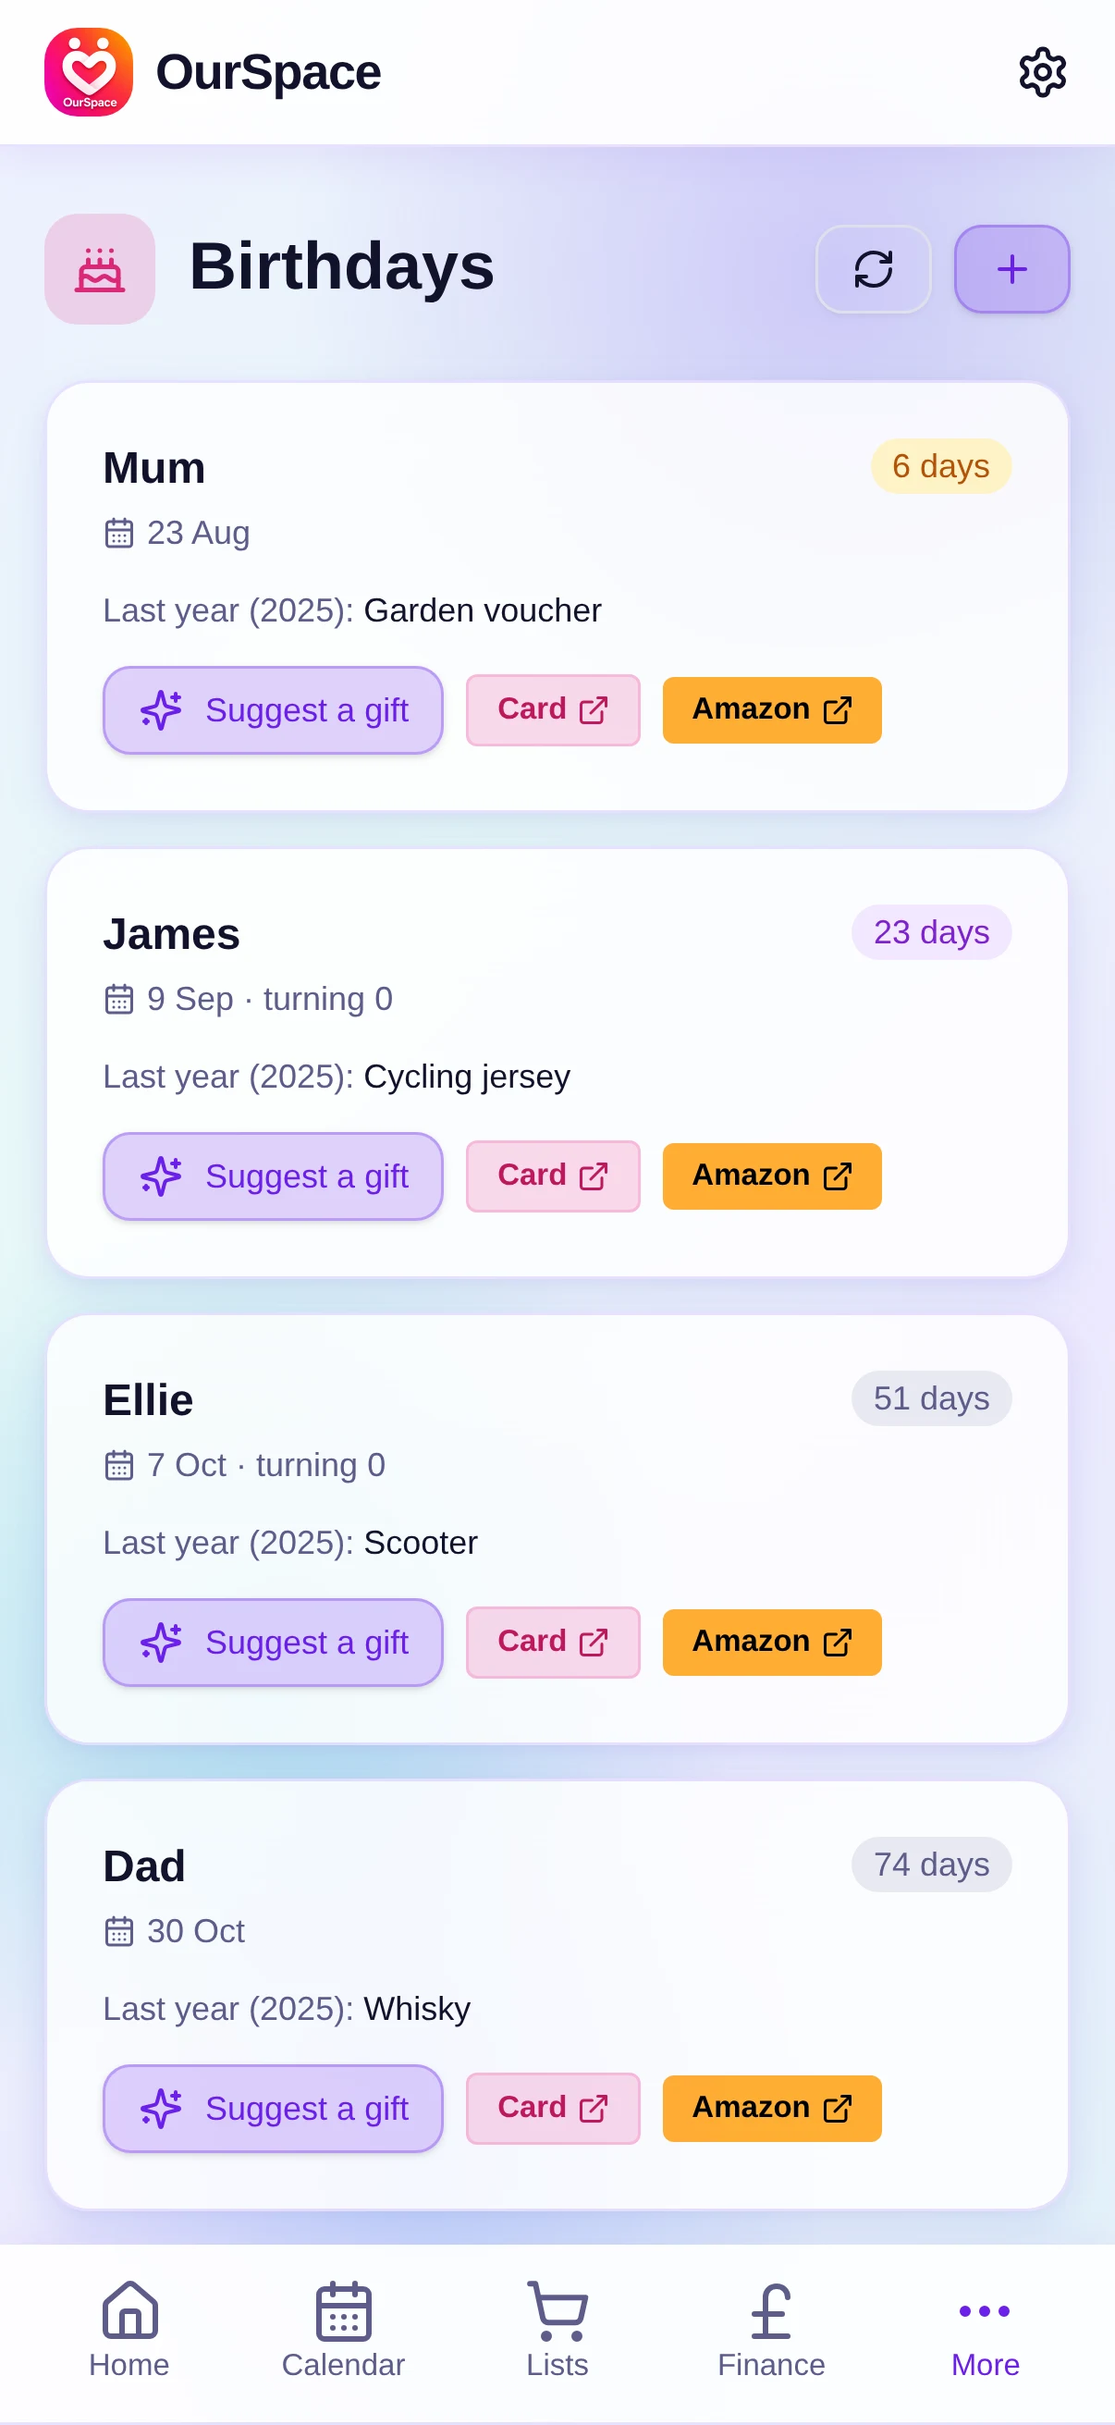
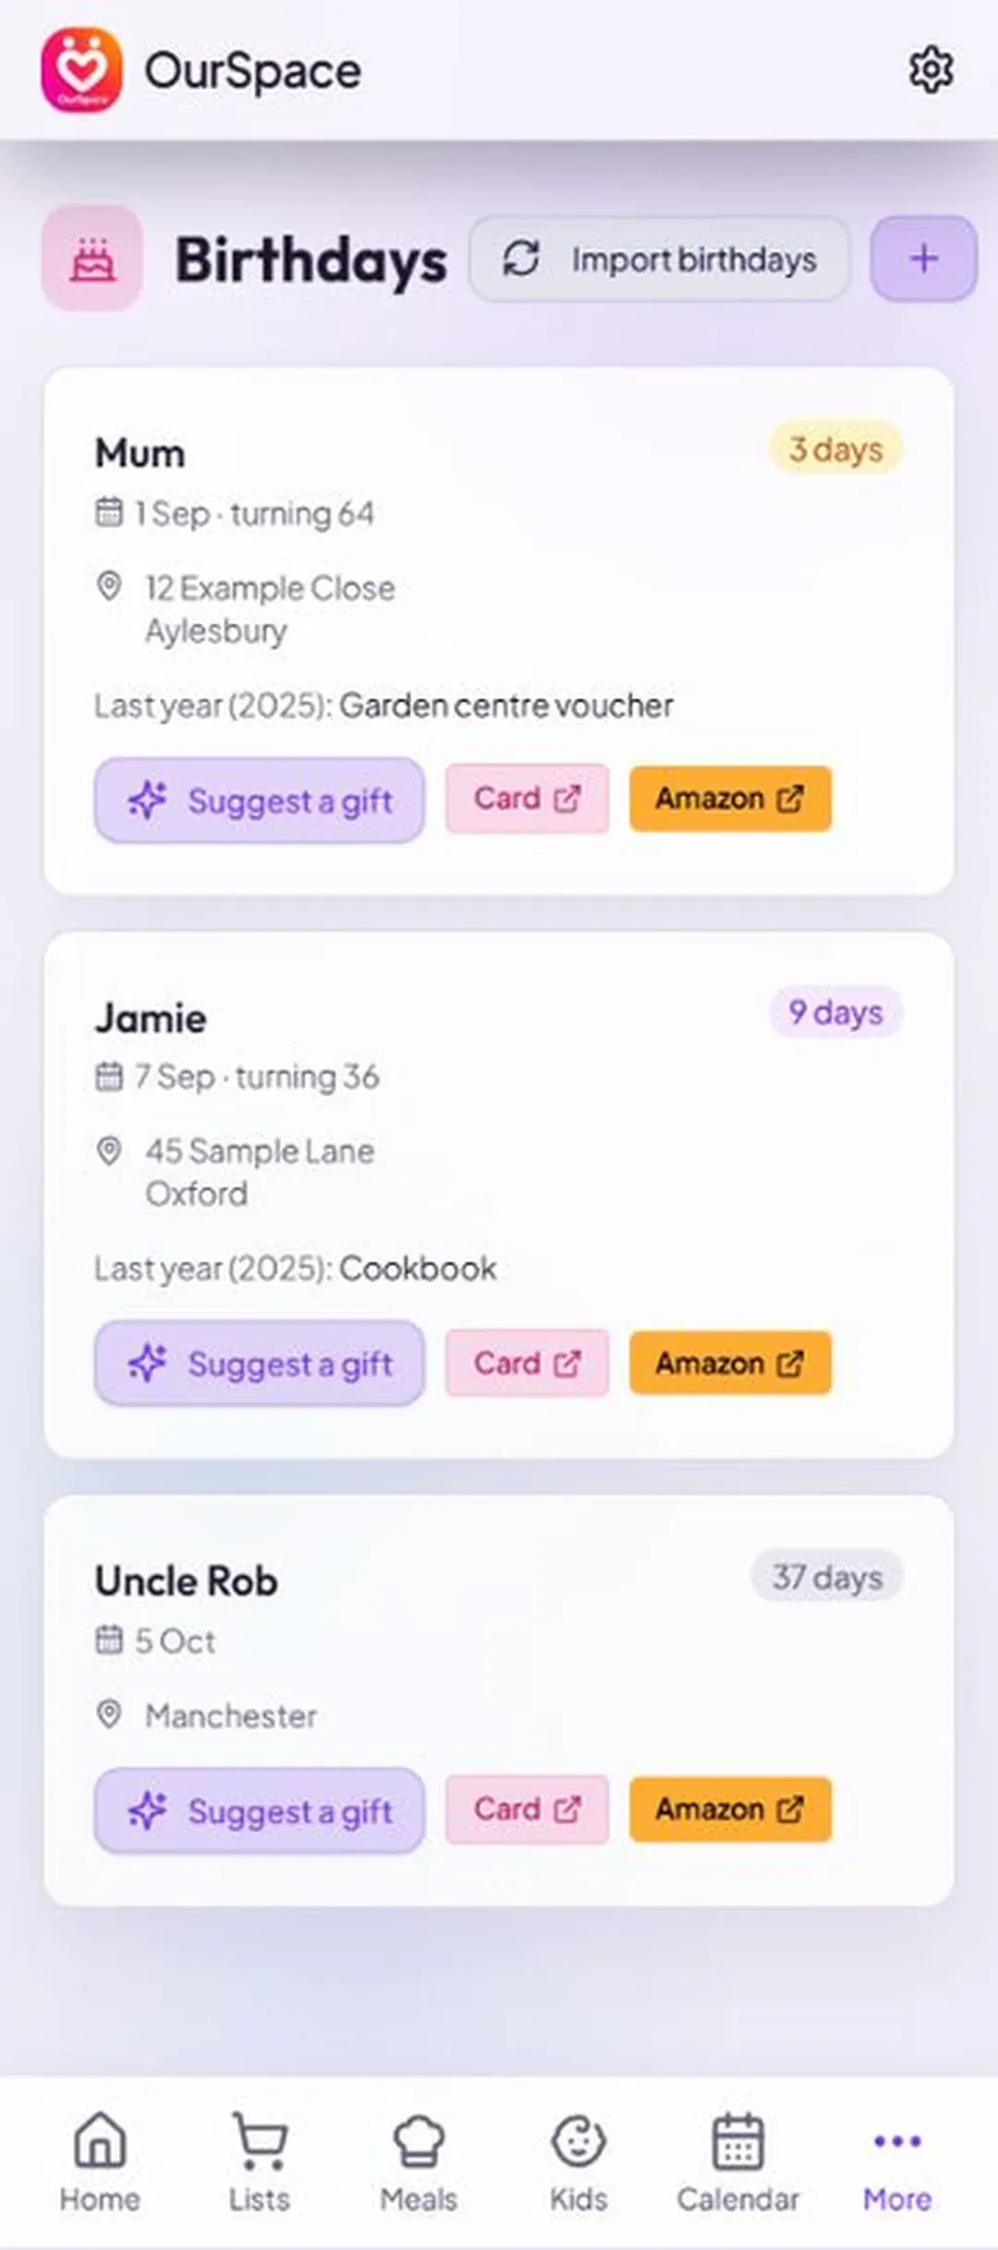
OurSpace: refresh the screenshots and show the app on a laptop
Every OurSpace capture on the site was from an older build and an older
sample household. They are replaced with the 29 August set: the same
fictional Morgan household throughout, and the phone shots now come from
the 1080-wide captures rather than the previous 1206-wide ones.

The page only ever showed OurSpace as a phone app, which undersells a
product that also runs in a browser. A new section after the phone grid
puts four of the desktop captures up two to a row.

Two swaps: the kids page was shot on an empty week, so it comes out of
both galleries; the meal planner goes in, on this page and on the home
page's OurSpace card.

scripts/build_ourspace_shots.mjs rebuilds all of it — including the
three-phone hero composite — from the two capture sources, so the next
re-shoot is one command.

diff --git a/ourspace.html b/ourspace.html
@@ -41,7 +41,7 @@
   <link rel="apple-touch-icon" href="apple-touch-icon.png">
   <link rel="preload" href="fonts/poppins-600.woff2" as="font" type="font/woff2" crossorigin>
   <link rel="preload" href="fonts/poppins-700.woff2" as="font" type="font/woff2" crossorigin>
-  <link rel="stylesheet" href="css/style.css?v=9">
+  <link rel="stylesheet" href="css/style.css?v=10">
   <script src="js/consent.js" defer></script>
 </head>
 <body>
@@ -79,7 +79,7 @@
           </div>
           <p class="hero-note">Prefer the browser? OurSpace also runs at <a href="https://our-space.me" rel="noopener">our-space.me</a>.</p>
         </div>
-        <a class="hero-product-shot shot-link" href="img/shots/ourspace-hero.webp"><img src="img/shots/ourspace-hero.webp" alt="Three phones showing OurSpace's calendar, home screen with its catch-up digest, and shared shopping list, side by side on the app's purple background" width="1400" height="840" fetchpriority="high"></a>
+        <a class="hero-product-shot shot-link" href="img/shots/ourspace-hero.webp"><img src="img/shots/ourspace-hero.webp" alt="Three phones showing OurSpace's calendar, the home screen with its bin reminder and noticeboard, and the shared shopping list, side by side on the app's purple background" width="1400" height="840" fetchpriority="high"></a>
       </div>
     </section>
 
@@ -126,36 +126,62 @@
         <p class="measure">Your day, your lists and your money — side by side, so both of you are looking at the same thing. Shown here with sample data from a made-up household.</p>
         <div class="phone-shots">
           <figure>
-            <a class="shot-link" href="img/shots/ourspace-home.webp"><img class="feature-shot" src="img/shots/ourspace-home.webp" width="1206" height="2622" loading="lazy" alt="OurSpace's home screen: today's events split into two columns, one per partner, above an AI-written digest summarising what the other person added or ticked off since you last looked"></a>
+            <a class="shot-link" href="img/shots/ourspace-home.webp"><img class="feature-shot" src="img/shots/ourspace-home.webp" width="1080" height="2433" loading="lazy" alt="OurSpace's home screen: today's events split into two columns, one per partner, above an AI-written digest summarising what the other person added or ticked off since you last looked"></a>
             <figcaption>Home — the day, and what changed</figcaption>
           </figure>
           <figure>
-            <a class="shot-link" href="img/shots/ourspace-calendar.webp"><img class="feature-shot" src="img/shots/ourspace-calendar.webp" width="1206" height="2622" loading="lazy" alt="OurSpace's calendar: each partner's Google Calendar events for the day listed under their own name, with a month view underneath"></a>
+            <a class="shot-link" href="img/shots/ourspace-calendar.webp"><img class="feature-shot" src="img/shots/ourspace-calendar.webp" width="1080" height="2433" loading="lazy" alt="OurSpace's calendar: each partner's Google Calendar events for the day listed under their own name, with a month view underneath"></a>
             <figcaption>Calendar — both diaries, one view</figcaption>
           </figure>
           <figure>
-            <a class="shot-link" href="img/shots/ourspace-lists.webp"><img class="feature-shot" src="img/shots/ourspace-lists.webp" width="1206" height="2622" loading="lazy" alt="OurSpace's shopping list with quantities, an item assigned to a partner, quick shopping links, and a completed section showing what has been ticked off"></a>
+            <a class="shot-link" href="img/shots/ourspace-lists.webp"><img class="feature-shot" src="img/shots/ourspace-lists.webp" width="1080" height="2433" loading="lazy" alt="OurSpace's shopping list with quantities, an item assigned to a partner, quick shopping links, and a completed section showing what has been ticked off"></a>
             <figcaption>Lists — shopping and tasks</figcaption>
           </figure>
           <figure>
-            <a class="shot-link" href="img/shots/ourspace-finance.webp"><img class="feature-shot" src="img/shots/ourspace-finance.webp" width="1206" height="2622" loading="lazy" alt="OurSpace's finance screen: bank, assets, pensions and debts totalled into a net worth figure, with current and savings accounts listed below"></a>
+            <a class="shot-link" href="img/shots/ourspace-meals.webp"><img class="feature-shot" src="img/shots/ourspace-meals.webp" width="1080" height="2433" loading="lazy" alt="OurSpace's meal planner: a box for the week's food preferences above the drafted dinners, each with its description, cooking instructions and side, ready to accept or swap"></a>
+            <figcaption>Meals — the week's dinners drafted</figcaption>
+          </figure>
+          <figure>
+            <a class="shot-link" href="img/shots/ourspace-finance.webp"><img class="feature-shot" src="img/shots/ourspace-finance.webp" width="1080" height="2433" loading="lazy" alt="OurSpace's finance screen: bank, assets, pensions and debts totalled into a net worth figure, with current and savings accounts listed below"></a>
             <figcaption>Finance — the whole picture</figcaption>
           </figure>
           <figure>
-            <a class="shot-link" href="img/shots/ourspace-budget.webp"><img class="feature-shot" src="img/shots/ourspace-budget.webp" width="1206" height="2622" loading="lazy" alt="OurSpace's budget screen: monthly income, outgoings and surplus totals, with each partner's income listed and outgoings imported from direct debits"></a>
+            <a class="shot-link" href="img/shots/ourspace-budget.webp"><img class="feature-shot" src="img/shots/ourspace-budget.webp" width="1080" height="2433" loading="lazy" alt="OurSpace's budget screen: monthly income, outgoings and surplus totals, with each partner's income listed and outgoings imported from direct debits"></a>
             <figcaption>Budget — what's left each month</figcaption>
           </figure>
           <figure>
-            <a class="shot-link" href="img/shots/ourspace-contracts.webp"><img class="feature-shot" src="img/shots/ourspace-contracts.webp" width="1206" height="2622" loading="lazy" alt="OurSpace's contracts screen: total monthly outgoings above broadband, insurance and energy contracts, each with its cost and renewal date, one flagged amber as renewing soon"></a>
+            <a class="shot-link" href="img/shots/ourspace-contracts.webp"><img class="feature-shot" src="img/shots/ourspace-contracts.webp" width="1080" height="2433" loading="lazy" alt="OurSpace's contracts screen: total monthly outgoings above broadband, insurance and energy contracts, each with its cost and renewal date, one flagged amber as renewing soon"></a>
             <figcaption>Contracts — renewals seen coming</figcaption>
           </figure>
           <figure>
-            <a class="shot-link" href="img/shots/ourspace-birthdays.webp"><img class="feature-shot" src="img/shots/ourspace-birthdays.webp" width="1206" height="2622" loading="lazy" alt="OurSpace's birthdays screen: upcoming birthdays with days-to-go badges, last year's gift noted, and buttons to suggest a gift, buy a card or shop on Amazon"></a>
+            <a class="shot-link" href="img/shots/ourspace-birthdays.webp"><img class="feature-shot" src="img/shots/ourspace-birthdays.webp" width="1080" height="2433" loading="lazy" alt="OurSpace's birthdays screen: upcoming birthdays with days-to-go badges, last year's gift noted, and buttons to suggest a gift, buy a card or shop on Amazon"></a>
             <figcaption>Birthdays — a week's warning</figcaption>
           </figure>
+        </div>
+      </div>
+    </section>
+
+    <section class="section" aria-labelledby="ourspace-desktop-heading">
+      <div class="wrap">
+        <p class="kicker">On a bigger screen</p>
+        <h2 id="ourspace-desktop-heading" class="sheet-head">And the same household on a laptop.</h2>
+        <p class="measure">OurSpace is a web app as well as a phone one, so the same household opens at our-space.me in any browser — the same data, with more of it in front of you at once. Useful for the Sunday-night sort-out, when you're going through the month's money or planning the week's dinners properly.</p>
+        <div class="desktop-shots">
           <figure>
-            <a class="shot-link" href="img/shots/ourspace-kids.webp"><img class="feature-shot" src="img/shots/ourspace-kids.webp" width="1206" height="2622" loading="lazy" alt="OurSpace's kids screen: the week's activities per child with times, locations and who is dropping off and collecting"></a>
-            <figcaption>The kids' week</figcaption>
+            <a class="shot-link" href="img/shots/ourspace-desktop-home.webp"><img class="feature-shot" src="img/shots/ourspace-desktop-home.webp" width="1400" height="983" loading="lazy" alt="OurSpace's home screen in a browser: the day's greeting and bin reminder across the top, then three columns holding each partner's events, the upcoming tasks, the monthly budget and the financial snapshot"></a>
+            <figcaption>Home — the whole day without scrolling</figcaption>
+          </figure>
+          <figure>
+            <a class="shot-link" href="img/shots/ourspace-desktop-calendar.webp"><img class="feature-shot" src="img/shots/ourspace-desktop-calendar.webp" width="1400" height="972" loading="lazy" alt="OurSpace's calendar in a browser: each partner's day in its own card side by side, with the month view underneath and both names marked against the day's dots"></a>
+            <figcaption>Calendar — both diaries side by side</figcaption>
+          </figure>
+          <figure>
+            <a class="shot-link" href="img/shots/ourspace-desktop-finance.webp"><img class="feature-shot" src="img/shots/ourspace-desktop-finance.webp" width="1400" height="983" loading="lazy" alt="OurSpace's finance screen in a browser: bank, assets, pensions, debts and net worth across the top, then accounts, debts and commitments, pensions and physical assets listed below"></a>
+            <figcaption>Finance — accounts, debts, pensions and assets</figcaption>
+          </figure>
+          <figure>
+            <a class="shot-link" href="img/shots/ourspace-desktop-meals.webp"><img class="feature-shot" src="img/shots/ourspace-desktop-meals.webp" width="1400" height="983" loading="lazy" alt="OurSpace's meal planner in a browser: the week's preferences at the top, then each day's dinner with its description, cooking instructions and side, ready to accept, edit, swap or send to the shopping list"></a>
+            <figcaption>Meals — a week of dinners to accept or swap</figcaption>
           </figure>
         </div>
       </div>

diff --git a/index.html b/index.html
@@ -35,7 +35,7 @@
   <link rel="apple-touch-icon" href="apple-touch-icon.png">
   <link rel="preload" href="fonts/poppins-600.woff2" as="font" type="font/woff2" crossorigin>
   <link rel="preload" href="fonts/poppins-700.woff2" as="font" type="font/woff2" crossorigin>
-  <link rel="stylesheet" href="css/style.css?v=9">
+  <link rel="stylesheet" href="css/style.css?v=10">
   <script src="js/consent.js" defer></script>
 </head>
 <body>
@@ -86,7 +86,7 @@
             <span><strong>Almoner</strong> Charity governance</span>
           </a>
           <a class="showcase-card showcase-ourspace" href="ourspace.html">
-            <img src="img/shots/ourspace-home.webp" alt="The OurSpace household app home screen" width="1206" height="2622">
+            <img src="img/shots/ourspace-home.webp" alt="The OurSpace household app home screen" width="1080" height="2433">
             <span><strong>OurSpace</strong> Shared life</span>
           </a>
         </div>
@@ -215,13 +215,13 @@
             </div>
             <div class="product-card-media phone-product-media" aria-label="A look inside OurSpace">
               <a class="phone-card-shot shot-link" href="img/shots/ourspace-home.webp">
-                <img src="img/shots/ourspace-home.webp" alt="OurSpace showing a shared household day" width="1206" height="2622" loading="lazy">
+                <img src="img/shots/ourspace-home.webp" alt="OurSpace showing a shared household day" width="1080" height="2433" loading="lazy">
               </a>
               <a class="phone-card-shot shot-link" href="img/shots/ourspace-calendar.webp">
-                <img src="img/shots/ourspace-calendar.webp" alt="OurSpace showing both partners' calendars together" width="1206" height="2622" loading="lazy">
+                <img src="img/shots/ourspace-calendar.webp" alt="OurSpace showing both partners' calendars together" width="1080" height="2433" loading="lazy">
               </a>
-              <a class="phone-card-shot shot-link" href="img/shots/ourspace-kids.webp">
-                <img src="img/shots/ourspace-kids.webp" alt="OurSpace showing the children's weekly activities" width="1206" height="2622" loading="lazy">
+              <a class="phone-card-shot shot-link" href="img/shots/ourspace-meals.webp">
+                <img src="img/shots/ourspace-meals.webp" alt="OurSpace showing the week's dinners drafted by its meal planner" width="1080" height="2433" loading="lazy">
               </a>
             </div>
           </article>

diff --git a/css/style.css b/css/style.css
@@ -964,6 +964,28 @@ h3 { font-weight: 600; font-size: var(--step-2); }
   }
 }
 
+/* ---- Desktop screenshots (OurSpace) ----
+   OurSpace runs in a browser as well, so the same screens are shown again at
+   1400px wide. Two to a row rather than .feature-shot's full column, which
+   would make each capture taller than the viewport. */
+
+.desktop-shots {
+  display: grid;
+  grid-template-columns: repeat(2, minmax(0, 1fr));
+  gap: 1.75rem;
+  margin-top: 2rem;
+}
+.desktop-shots figure { margin: 0; }
+.desktop-shots figcaption {
+  margin-top: 0.7rem;
+  font-size: 0.9rem;
+  color: var(--muted);
+}
+
+@media (max-width: 48em) {
+  .desktop-shots { grid-template-columns: minmax(0, 1fr); }
+}
+
 /* ---- Enquiry page (enquiry.html): the form that feeds EdwardsApps Connect ----
    Same quiet system as the rest of the site: a white card on paper, green as
    the only accent. The form comes first in the source so it is also first on

diff --git a/crewbook-guide.html b/crewbook-guide.html
@@ -23,7 +23,7 @@
   <link rel="apple-touch-icon" href="apple-touch-icon.png">
   <link rel="preload" href="fonts/poppins-600.woff2" as="font" type="font/woff2" crossorigin>
   <link rel="preload" href="fonts/poppins-700.woff2" as="font" type="font/woff2" crossorigin>
-  <link rel="stylesheet" href="css/style.css?v=9">
+  <link rel="stylesheet" href="css/style.css?v=10">
   <link rel="stylesheet" href="css/guide.css?v=1">
   <script src="js/consent.js" defer></script>
 </head>

diff --git a/crewqci-guide.html b/crewqci-guide.html
@@ -23,7 +23,7 @@
   <link rel="apple-touch-icon" href="apple-touch-icon.png">
   <link rel="preload" href="fonts/poppins-600.woff2" as="font" type="font/woff2" crossorigin>
   <link rel="preload" href="fonts/poppins-700.woff2" as="font" type="font/woff2" crossorigin>
-  <link rel="stylesheet" href="css/style.css?v=9">
+  <link rel="stylesheet" href="css/style.css?v=10">
   <link rel="stylesheet" href="css/guide.css?v=1">
   <script src="js/consent.js" defer></script>
 </head>

diff --git a/guides.html b/guides.html
@@ -23,7 +23,7 @@
   <link rel="apple-touch-icon" href="apple-touch-icon.png">
   <link rel="preload" href="fonts/poppins-600.woff2" as="font" type="font/woff2" crossorigin>
   <link rel="preload" href="fonts/poppins-700.woff2" as="font" type="font/woff2" crossorigin>
-  <link rel="stylesheet" href="css/style.css?v=9">
+  <link rel="stylesheet" href="css/style.css?v=10">
   <link rel="stylesheet" href="css/guide.css?v=1">
   <script src="js/consent.js" defer></script>
 </head>

diff --git a/404.html b/404.html
@@ -12,7 +12,7 @@
   <link rel="apple-touch-icon" href="/apple-touch-icon.png">
   <link rel="preload" href="/fonts/poppins-600.woff2" as="font" type="font/woff2" crossorigin>
   <link rel="preload" href="/fonts/poppins-700.woff2" as="font" type="font/woff2" crossorigin>
-  <link rel="stylesheet" href="/css/style.css?v=9">
+  <link rel="stylesheet" href="/css/style.css?v=10">
   <script src="/js/consent.js" defer></script>
 </head>
 <body>

diff --git a/about.html b/about.html
@@ -39,7 +39,7 @@
   <link rel="apple-touch-icon" href="apple-touch-icon.png">
   <link rel="preload" href="fonts/poppins-600.woff2" as="font" type="font/woff2" crossorigin>
   <link rel="preload" href="fonts/poppins-700.woff2" as="font" type="font/woff2" crossorigin>
-  <link rel="stylesheet" href="css/style.css?v=9">
+  <link rel="stylesheet" href="css/style.css?v=10">
   <script src="js/consent.js" defer></script>
 </head>
 <body>

diff --git a/almoner.html b/almoner.html
@@ -35,7 +35,7 @@
   <link rel="apple-touch-icon" href="apple-touch-icon.png">
   <link rel="preload" href="fonts/poppins-600.woff2" as="font" type="font/woff2" crossorigin>
   <link rel="preload" href="fonts/poppins-700.woff2" as="font" type="font/woff2" crossorigin>
-  <link rel="stylesheet" href="css/style.css?v=9">
+  <link rel="stylesheet" href="css/style.css?v=10">
   <script src="js/consent.js" defer></script>
 </head>
 <body>

diff --git a/cookies.html b/cookies.html
@@ -23,7 +23,7 @@
   <link rel="apple-touch-icon" href="apple-touch-icon.png">
   <link rel="preload" href="fonts/poppins-600.woff2" as="font" type="font/woff2" crossorigin>
   <link rel="preload" href="fonts/poppins-700.woff2" as="font" type="font/woff2" crossorigin>
-  <link rel="stylesheet" href="css/style.css?v=9">
+  <link rel="stylesheet" href="css/style.css?v=10">
   <script src="js/consent.js" defer></script>
 </head>
 <body>

diff --git a/crewbook.html b/crewbook.html
@@ -35,7 +35,7 @@
   <link rel="apple-touch-icon" href="apple-touch-icon.png">
   <link rel="preload" href="fonts/poppins-600.woff2" as="font" type="font/woff2" crossorigin>
   <link rel="preload" href="fonts/poppins-700.woff2" as="font" type="font/woff2" crossorigin>
-  <link rel="stylesheet" href="css/style.css?v=9">
+  <link rel="stylesheet" href="css/style.css?v=10">
   <script src="js/consent.js" defer></script>
 </head>
 <body>

diff --git a/crewqci.html b/crewqci.html
@@ -39,7 +39,7 @@
   <link rel="apple-touch-icon" href="apple-touch-icon.png">
   <link rel="preload" href="fonts/poppins-600.woff2" as="font" type="font/woff2" crossorigin>
   <link rel="preload" href="fonts/poppins-700.woff2" as="font" type="font/woff2" crossorigin>
-  <link rel="stylesheet" href="css/style.css?v=9">
+  <link rel="stylesheet" href="css/style.css?v=10">
   <script src="js/consent.js" defer></script>
 </head>
 <body>
